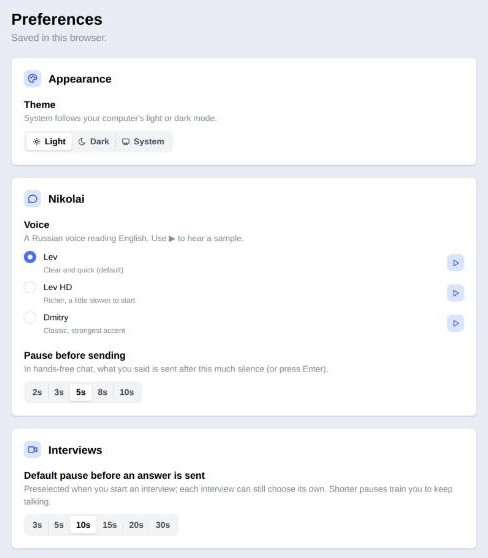
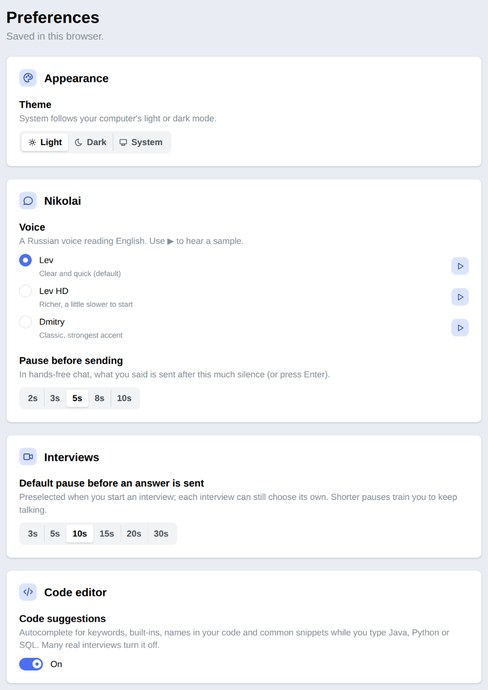
Docs: add code editor screenshot, refresh Preferences screenshot
Code editor screenshot (fictional demo data) in the user guide and the
README gallery; Preferences screenshot retaken to show the new Code
editor card.

Changed region(s): [[0.0, 0.0, 0.9836, 1.0], [0.3074, 0.4265, 0.4918, 0.457], [0.9529, 0.7312, 0.9836, 0.7616]]

diff --git a/README.md b/README.md
@@ -70,7 +70,8 @@ hiring-committee style report and a personal study guide.
 |---|---|
 | ![Dashboard](docs/screenshots/dashboard.jpg) **Dashboard:** past interviews, scores and time spent | ![Start an interview](docs/screenshots/start-interview.jpg) **Start an interview:** resume, company, format, round and focus topics |
 | ![Whiteboard](docs/screenshots/whiteboard.jpg) **Whiteboard:** sketch your design while you answer | ![Report](docs/screenshots/report-summary.jpg) **Report:** score, summary, strengths and improvements |
-| ![Ask AI](docs/screenshots/ask-ai.jpg) **Ask AI:** your answer next to a model answer, plus what to read | ![Company](docs/screenshots/company.jpg) **Company page:** the interviewer panel and their personas |
+| ![Code editor](docs/screenshots/code-editor.jpg) **Code editor:** write Java, Python or SQL with the question on top | ![Ask AI](docs/screenshots/ask-ai.jpg) **Ask AI:** your answer next to a model answer, plus what to read |
+| ![Company](docs/screenshots/company.jpg) **Company page:** the interviewer panel and their personas | ![Preferences](docs/screenshots/preferences.jpg) **Preferences:** theme, Nikolai's voice, pauses and code suggestions |
 
 All screenshots use fictional demo companies, interviewers and a fictional candidate.
 

diff --git a/docs/USER_GUIDE.md b/docs/USER_GUIDE.md
@@ -139,6 +139,8 @@ For coding questions (implement a function, write a SQL query, fix a snippet) th
 code, and the code editor opens automatically in the language asked for. You can also press **Code** at any time. Like
 the whiteboard, it takes the stage and the interviewers shrink to a strip at the top.
 
+![Code editor](screenshots/code-editor.jpg)
+
 - The question appears at the top of the editor as a comment, so you can read it while you code; a follow-up that
   asks for code is added above it the same way. These comments don't count as changes until you edit.
 - Pick **Java**, **Python** or **SQL** in the editor's toolbar (comments switch to the new language's syntax); for SQL you can also pick a dialect (Standard,
